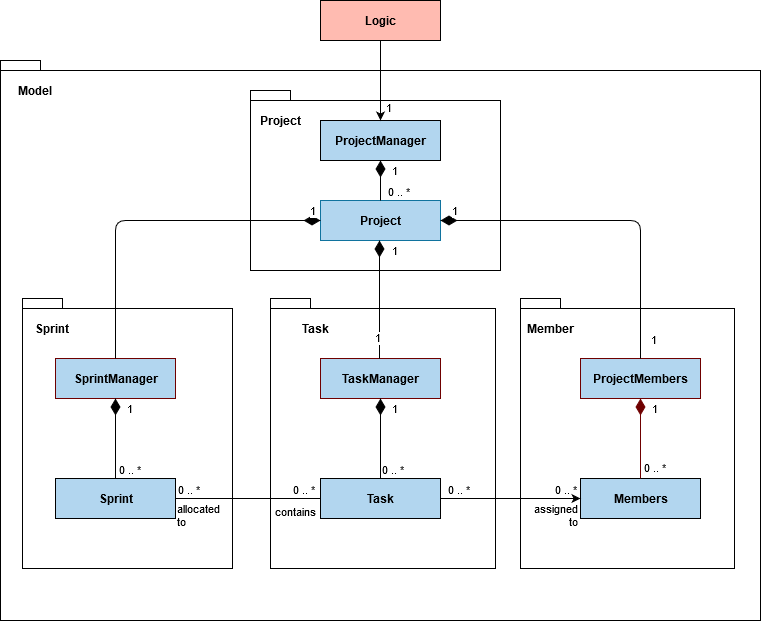
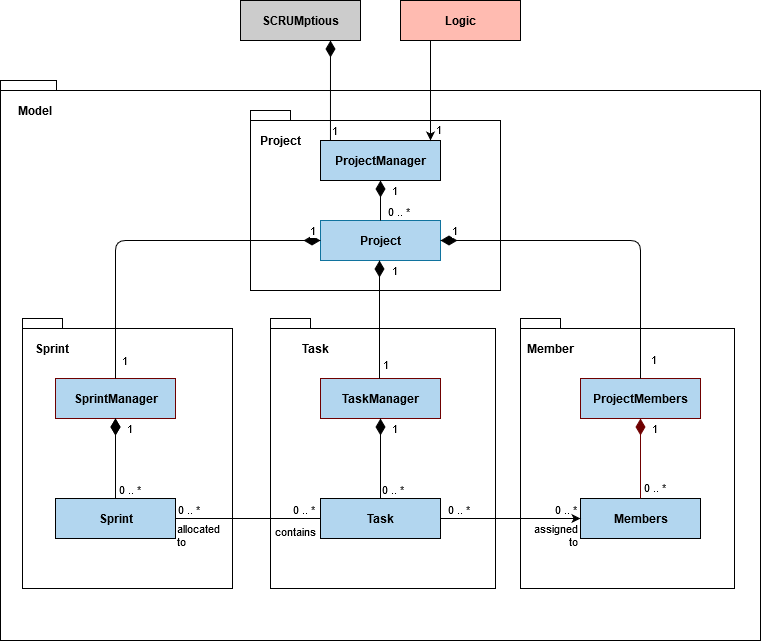
Update Developer guide (Model Component)

diff --git a/docs/DeveloperGuide.md b/docs/DeveloperGuide.md
@@ -157,25 +157,61 @@ A detailed list of the subcommand classes is as follows:
     * `TaskHelpCommand`
 ### Model Component
 ![Figure X: Simplified class diagram for Model Component](./image/developerguide/modelcomponent.png "Storage Component UML")  
-Link: [Model Package](https://github.com/AY2021S1-CS2113T-F11-4/tp/tree/master/src/main/java/seedu/duke/model)  
-The Model
-* Includes four packages namely, Project, Task, Member and Sprint.
+[Model Package](https://github.com/AY2021S1-CS2113T-F11-4/tp/tree/master/src/main/java/seedu/duke/model)  
+The Model package defines all the object classes that are used by SCRUMptious and this section will explain how these objects interact with other components and each other.
 
-Project package
-* Includes a ProjectList to manage the multiple instances of Project created by the user
-* Each instance of Project stores one instance of ProjectBacklog, ProjectMembers and SprintList.
+#### Initialisation
+* Upon starting the program, SCRUMptious will initialise one instance of `ProjectManager` which will be used to facilitate all the operation in the program.
 
-Task  package
-* Includes a ProjectBacklog to manage every Tasks created by the user
-* Task can be allocated to Sprints and can be assigned to Members, 
+#### Operation - Command Execution
+When a `Command` from the [Logic component](#logic-component) is executed, it will work on the same `ProjectManager` initialised previously and will branch down to the necessary packages as required.
 
-Member package
-* Includes a ProjectMembers to manage every Members created by the user
-* Member can be assigned with Tasks and can be allocated to Sprints holding those Tasks
- 
-Sprint package
-* Includes a SprintList to manage every Sprints created by the user
-* Sprint can contain Tasks and Members allocated to those Tasks
+##### Project Operations
+* `ProjectManager` facilitate the management of multiple `Project` instances.
+    * Creation of `Project` adds an entry to `ProjectManager`.
+    * Deletion of `Project` removes an entry from `ProjectManager`.
+* `Project` contain necessary information about the project such as:
+    * Project ID
+    * Project Title
+    * Project Description
+    * Project Duration
+    * Sprint Length
+    * Project Start Date
+    * Project End Date
+* `Project` hold three additional object that are initialise upon its creation:
+    * `ProjectMembers` to facilitate the management of `Members` that are working on the `Project`.
+    * `SprintManager` to facilitate the management of `Sprint` iterations that belongs to the `Project`.
+    * `TaskManager` to facilitate the management of `Tasks` that are broken down from the `Project`.
+##### Members Operations
+* `ProjectMembers` facilitate the management of multiple `Members` instances and is dependant on the `Project` that initialises it.
+    * Creation of `Member` adds an entry to `ProjectMembers`.
+    * Deletion of `Member` removes an entry from `ProjectMembers`.
+* `Member` contain the Member's user ID.
+
+##### Task Operations
+* `TaskManager` facilitate the management of multiple `Task` instances and is dependant on the `Project` that initialises it.
+    * Creation of `Task` adds an entry to `TaskManager`.
+    * Deletion of `Task` removes an entry from `TaskManager`.
+* `Task` contain necessary information about the task such as:
+    * Task ID
+    * Task Title
+    * Task Description
+    * Task Priority
+    * Task Completion Status
+* `Task` contain two additional ArrayList that are initialise upon its creation:
+    * ArrayList of Member's user ID to keep track `Members` who are assigned to work on the task.
+    * ArrayList of Sprint ID to keep track `Sprints` that the task are allocated to.
+
+##### Sprint Operations
+* `SprintManager` will facilitate the management of multiple `Sprint` instances and is dependant on the `Project` that initialises it.
+    * Creation of `Sprint` adds an entry to `SprintManager`.
+* `Sprint` contain necessary information about the iteration such as:
+    * Sprint ID
+    * Sprint Goal
+    * Sprint Start Date
+    * Sprint End Date
+* `Sprint` contain one additional ArrayList that are initialise upon its creation:
+    * ArrayList of Task IDs to keep track `Tasks` that are allocated to the `Sprint`.
 ### Storage Component
 ![Figure X: Simplified class diagram for Storage Component, Model and json.simple](./image/developerguide/storagecomponent.png "Storage Component UML")  
   
